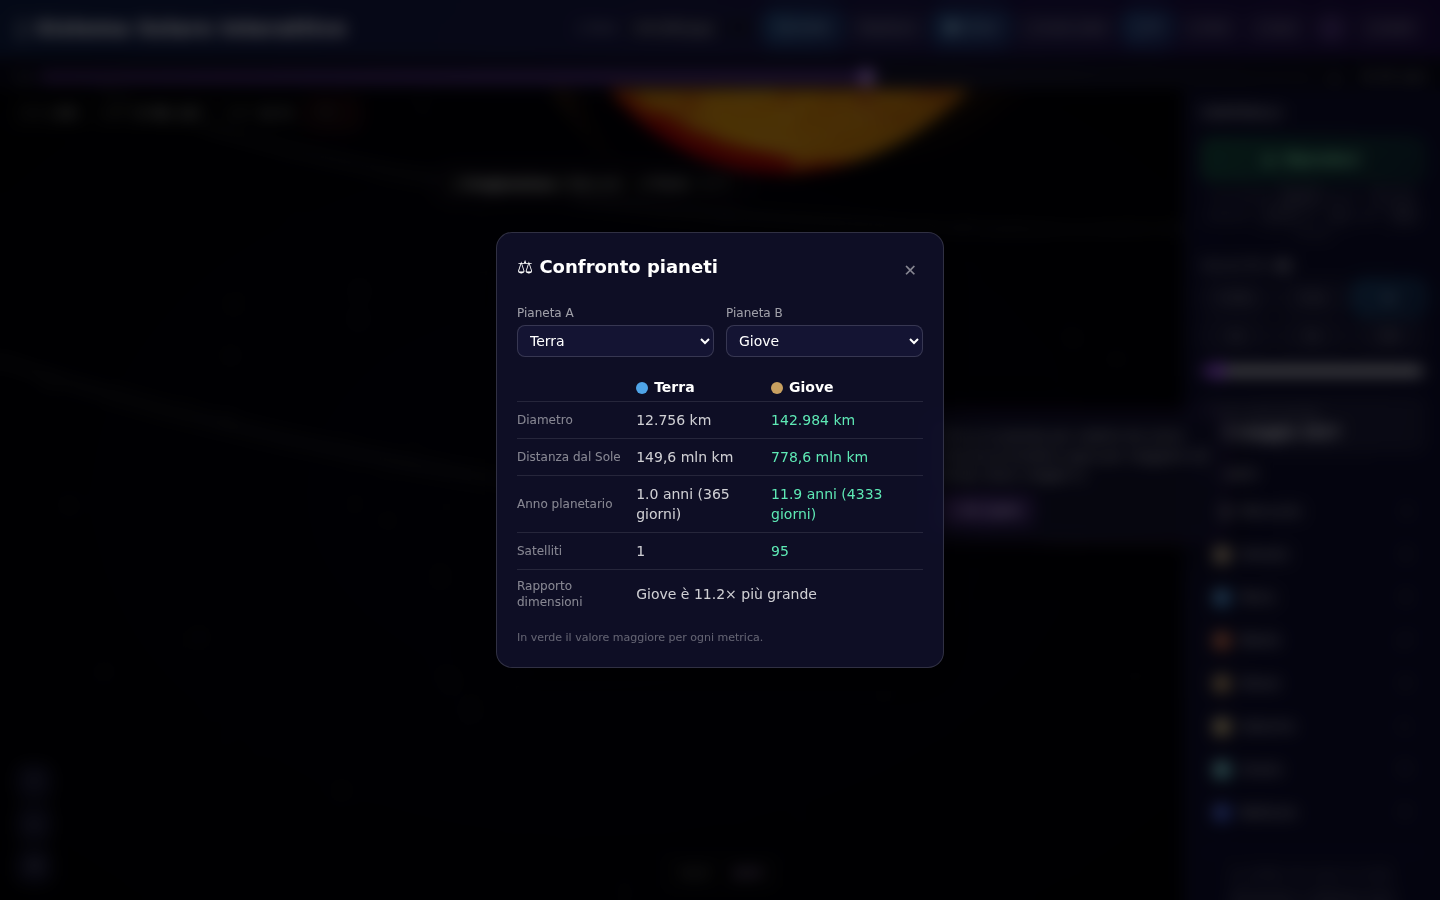
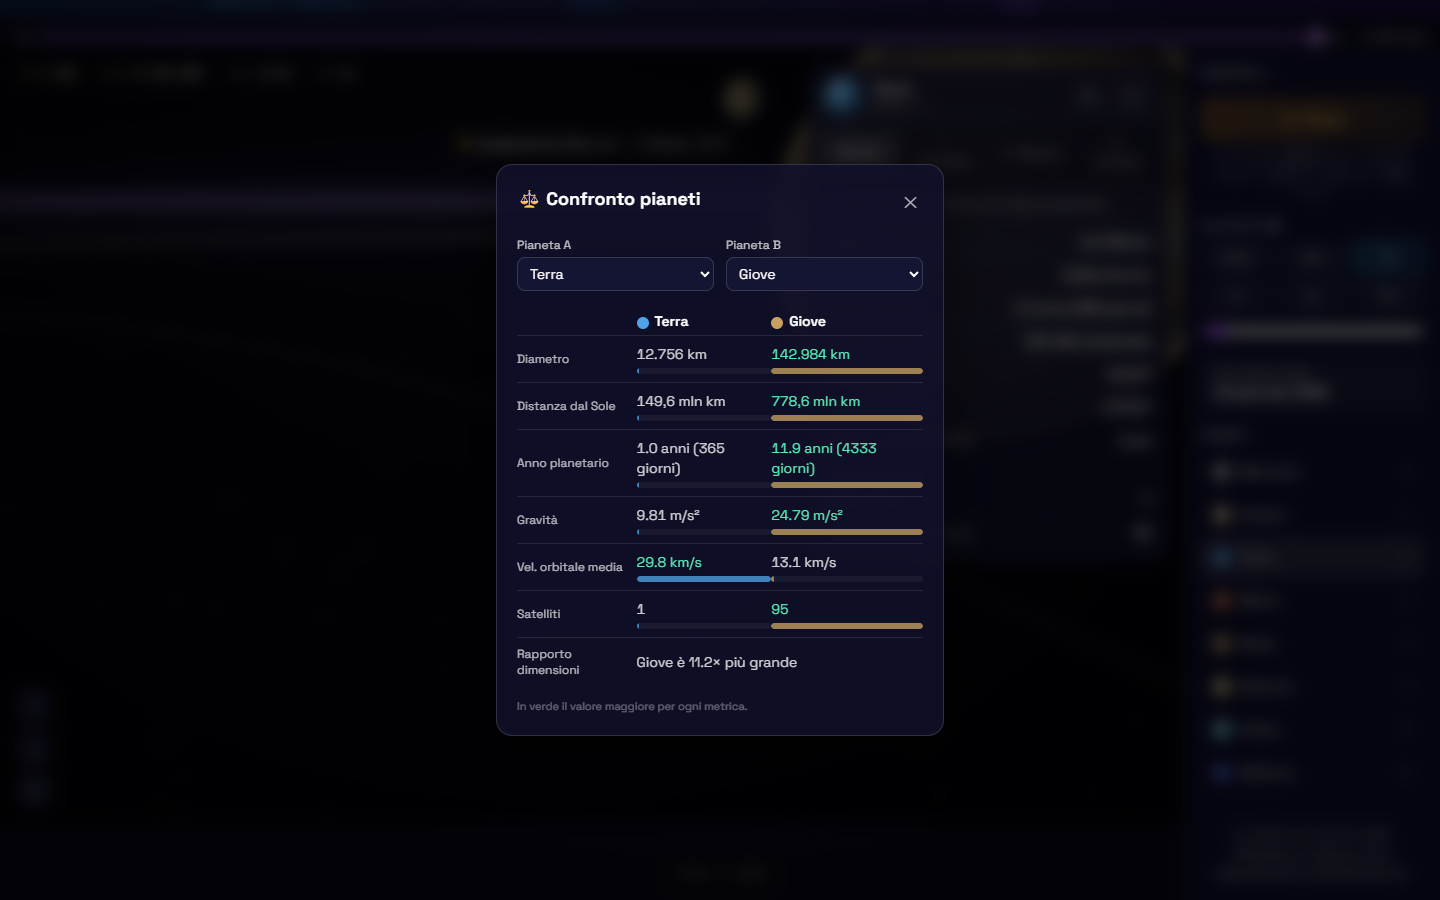
fix(ui): 4 miglioramenti UI (menu z-index, planet picker, quiz progress, debug HUD)
- App: il menu overflow ⋯ viene portaled a <body> con z-index 400 per
  sfuggire allo stacking context dell'header (z-10) ed evitare che la
  timeline lo copra, rendendo Confronto/Tour/Free Cam non cliccabili
- CompareModal: sostituiti i <select> nativi con un PlanetPicker custom
  (button+listbox) in tema dark, con il colore del pianeta per opzione
- QuizModal: aggiunta barra di progresso visiva (gradiente viola→rosa)
  con contatore 1/5 sopra la domanda
- HoverCrosshair: il badge coordinate 3D è nascosto di default e visibile
  solo in modalità debug (?debug=1 o localStorage('debug')='1'); il
  readout 'Target' resta sempre attivo per orientarsi
- Aggiornati i test RTL sul flusso confronto per il nuovo picker
- Rigenerati gli screenshot in docs/images/ per riflettere lo stato
  corrente del progetto (erano dell'11/10, dopo i commit S9–S15)

diff --git a/src/App.tsx b/src/App.tsx
@@ -1,4 +1,5 @@
 import { useEffect, useMemo, useRef, useState, useCallback, lazy, Suspense } from 'react';
+import { createPortal } from 'react-dom';
 import { planets, type PlanetData } from './data/planets';
 import {
   createHashWriter,
@@ -1094,69 +1095,92 @@ interface OverflowItem {
 
 /** Bottone "⋯" che apre un menu dropdown con le voci secondarie dell'header.
  *  Pensato per header stretti: se i chip entrano, `flex-wrap` li tiene in linea
- *  — il menu aggiunge solo uno shortcut cliccabile per le 3 voci più "nascoste". */
+ *  — il menu aggiunge solo uno shortcut cliccabile per le 3 voci più "nascoste".
+ *  Il dropdown è portaled a <body> per sfuggire allo stacking context
+ *  dell'header (z-10) e non essere coperto dalla timeline (anch'essa z-10). */
 function OverflowMenu({ items }: { items: OverflowItem[] }) {
   const t = useT();
   const [open, setOpen] = useState(false);
   const ref = useRef<HTMLDivElement>(null);
+  const triggerRef = useRef<HTMLButtonElement>(null);
+  const [pos, setPos] = useState<{ top: number; right: number } | null>(null);
 
   useEffect(() => {
     if (!open) return;
     const onClick = (e: MouseEvent) => {
-      if (ref.current && !ref.current.contains(e.target as Node)) setOpen(false);
+      const target = e.target as Node;
+      if (ref.current?.contains(target)) return;
+      if (triggerRef.current?.contains(target)) return;
+      setOpen(false);
     };
     const onKey = (e: KeyboardEvent) => {
       if (e.key === 'Escape') setOpen(false);
     };
-    document.addEventListener('mousedown', onClick);
-    document.addEventListener('keydown', onKey);
+    const updatePos = () => {
+      const r = triggerRef.current?.getBoundingClientRect();
+      if (r) setPos({ top: r.bottom + 6, right: window.innerWidth - r.right });
+    };
+    updatePos();
+    window.addEventListener('mousedown', onClick);
+    window.addEventListener('keydown', onKey);
+    window.addEventListener('resize', updatePos);
+    window.addEventListener('scroll', updatePos, true);
     return () => {
-      document.removeEventListener('mousedown', onClick);
-      document.removeEventListener('keydown', onKey);
+      window.removeEventListener('mousedown', onClick);
+      window.removeEventListener('keydown', onKey);
+      window.removeEventListener('resize', updatePos);
+      window.removeEventListener('scroll', updatePos, true);
     };
   }, [open]);
 
   return (
-    <div ref={ref} className="relative">
-      <button
-        type="button"
-        onClick={() => setOpen((v) => !v)}
-        aria-haspopup="menu"
-        aria-expanded={open}
-        aria-label={t('tip.more')}
-        title={t('tip.more')}
-        className={`chip ${open ? 'active' : ''}`}
-      >
-        ⋯
-      </button>
-      {open && (
-        <div
-          role="menu"
-          className="panel-in absolute right-0 top-full z-50 mt-1.5 flex min-w-[180px] flex-col gap-0.5 rounded-lg border border-white/10 bg-[#0d0d2a]/95 p-1.5 shadow-2xl backdrop-blur-md"
+    <>
+      <div ref={ref} className="relative">
+        <button
+          ref={triggerRef}
+          type="button"
+          onClick={() => setOpen((v) => !v)}
+          aria-haspopup="menu"
+          aria-expanded={open}
+          aria-label={t('tip.more')}
+          title={t('tip.more')}
+          className={`chip ${open ? 'active' : ''}`}
         >
-          {items.map((it) => (
-            <button
-              key={it.key}
-              role="menuitem"
-              onClick={() => {
-                it.onClick();
-                setOpen(false);
-              }}
-              className={`flex w-full items-center justify-between gap-3 rounded-md px-3 py-1.5 text-left text-[12px] transition-colors hover:bg-white/10 ${
-                it.active ? 'text-white' : 'text-white/75'
-              }`}
-              title={it.title}
-            >
-              <span>{it.label}</span>
-              {it.active && (
-                <span className="text-purple-300" aria-hidden>
-                  ●
-                </span>
-              )}
-            </button>
-          ))}
-        </div>
-      )}
-    </div>
+          ⋯
+        </button>
+      </div>
+      {open &&
+        pos &&
+        createPortal(
+          <div
+            role="menu"
+            style={{ position: 'fixed', top: pos.top, right: pos.right, zIndex: 400 }}
+            className="panel-in flex min-w-[180px] flex-col gap-0.5 rounded-lg border border-white/10 bg-[#0d0d2a]/95 p-1.5 shadow-2xl backdrop-blur-md"
+          >
+            {items.map((it) => (
+              <button
+                key={it.key}
+                role="menuitem"
+                onClick={() => {
+                  it.onClick();
+                  setOpen(false);
+                }}
+                className={`flex w-full items-center justify-between gap-3 rounded-md px-3 py-1.5 text-left text-[12px] transition-colors hover:bg-white/10 ${
+                  it.active ? 'text-white' : 'text-white/75'
+                }`}
+                title={it.title}
+              >
+                <span>{it.label}</span>
+                {it.active && (
+                  <span className="text-purple-300" aria-hidden>
+                    ●
+                  </span>
+                )}
+              </button>
+            ))}
+          </div>,
+          document.body
+        )}
+    </>
   );
 }

diff --git a/src/components/CompareModal.tsx b/src/components/CompareModal.tsx
@@ -5,7 +5,7 @@
  * S14 · F11 — evoluzione: barre animate in scala logaritmica, nuove righe
  * (gravità, velocità orbitale media, giorno siderale) derivate dal dataset.
  */
-import { useState } from 'react';
+import { useEffect, useRef, useState } from 'react';
 import { useT } from '../i18n';
 import type { PlanetData } from '../data/planets';
 import { formatNumber, formatOrbitalPeriod } from '../utils/format';
@@ -80,20 +80,7 @@ export default function CompareModal({ planets, onClose }: Props) {
   const b = planets.find((p) => p.name === bName) ?? planets[1];
 
   const selector = (label: string, value: string, onChange: (v: string) => void) => (
-    <label className="flex flex-col gap-1 text-xs text-white/75">
-      {label}
-      <select
-        value={value}
-        onChange={(e) => onChange(e.target.value)}
-        className="rounded-lg border border-white/15 bg-[#141433] px-2 py-1.5 text-sm text-white focus-visible:outline focus-visible:outline-2 focus-visible:outline-purple-400"
-      >
-        {planets.map((p) => (
-          <option key={p.name} value={p.name}>
-            {p.nameIt}
-          </option>
-        ))}
-      </select>
-    </label>
+    <PlanetPicker label={label} planets={planets} value={value} onChange={onChange} />
   );
 
   return (
@@ -179,6 +166,102 @@ export default function CompareModal({ planets, onClose }: Props) {
         </table>
         <p className="mt-3 text-[11px] text-white/35">{t('compare.note')}</p>
       </div>
+    </div>
+  );
+}
+
+/** S15 — sostituisce il <select> nativo: usa il tema dark, mostra il colore
+ *  del pianeta, ed evita il flicker di stile cross-browser dei menu OS. */
+function PlanetPicker({
+  label,
+  planets,
+  value,
+  onChange,
+}: {
+  label: string;
+  planets: PlanetData[];
+  value: string;
+  onChange: (v: string) => void;
+}) {
+  const [open, setOpen] = useState(false);
+  const ref = useRef<HTMLDivElement>(null);
+  const selected = planets.find((p) => p.name === value) ?? planets[0];
+
+  useEffect(() => {
+    if (!open) return;
+    const onClick = (e: MouseEvent) => {
+      if (ref.current && !ref.current.contains(e.target as Node)) setOpen(false);
+    };
+    const onKey = (e: KeyboardEvent) => {
+      if (e.key === 'Escape') setOpen(false);
+    };
+    document.addEventListener('mousedown', onClick);
+    document.addEventListener('keydown', onKey);
+    return () => {
+      document.removeEventListener('mousedown', onClick);
+      document.removeEventListener('keydown', onKey);
+    };
+  }, [open]);
+
+  return (
+    <div ref={ref} className="flex flex-col gap-1 text-xs text-white/75">
+      <span>{label}</span>
+      <button
+        type="button"
+        aria-haspopup="listbox"
+        aria-expanded={open}
+        aria-label={label}
+        onClick={() => setOpen((v) => !v)}
+        className="flex items-center justify-between gap-2 rounded-lg border border-white/15 bg-[#141433] px-2 py-1.5 text-left text-sm text-white transition-colors hover:border-white/30 focus-visible:outline focus-visible:outline-2 focus-visible:outline-purple-400"
+      >
+        <span className="flex items-center gap-2">
+          <span
+            className="inline-block h-3 w-3 rounded-full"
+            style={{ background: selected.color }}
+            aria-hidden
+          />
+          {selected.nameIt}
+        </span>
+        <span
+          className={`text-white/50 transition-transform ${open ? 'rotate-180' : ''}`}
+          aria-hidden
+        >
+          ▾
+        </span>
+      </button>
+      {open && (
+        <ul
+          role="listbox"
+          className="panel-in z-10 mt-1 max-h-60 overflow-auto rounded-lg border border-white/10 bg-[#0d0d2a]/98 p-1 shadow-2xl backdrop-blur-md"
+        >
+          {planets.map((p) => {
+            const active = p.name === value;
+            return (
+              <li key={p.name}>
+                <button
+                  type="button"
+                  role="option"
+                  aria-selected={active}
+                  onClick={() => {
+                    onChange(p.name);
+                    setOpen(false);
+                  }}
+                  className={`flex w-full items-center gap-2 rounded-md px-2 py-1.5 text-left text-sm transition-colors hover:bg-white/10 ${
+                    active ? 'bg-white/10 text-white' : 'text-white/80'
+                  }`}
+                >
+                  <span
+                    className="inline-block h-3 w-3 rounded-full"
+                    style={{ background: p.color }}
+                    aria-hidden
+                  />
+                  {p.nameIt}
+                </button>
+              </li>
+            );
+          })}
+        </ul>
+      )}
     </div>
   );
 }

diff --git a/src/components/HoverCrosshair.tsx b/src/components/HoverCrosshair.tsx
@@ -21,6 +21,16 @@ export interface HoverCrosshairProps {
 
 export function HoverCrosshair({ mouseNdcRef, worldHitRef, hoveredBodyRef }: HoverCrosshairProps) {
   const [pos, setPos] = useState<{ x: number; y: number } | null>(null);
+  // S15 · M7 — modalità debug: mostra le coordinate 3D sotto il mouse
+  // (`?debug=1` nell'URL o `localStorage('debug') === '1'`). Il mirino
+  // resta sempre attivo, il readout numerico no (riduce il rumore visivo
+  // per l'utente finale — la posizione è utile solo in fase di authoring).
+  const [debug] = useState(
+    () =>
+      typeof window !== 'undefined' &&
+      (new URLSearchParams(window.location.search).get('debug') === '1' ||
+        (typeof localStorage !== 'undefined' && localStorage.getItem('debug') === '1'))
+  );
   // Refresh forza re-render ogni 100ms per rileggere i ref live (worldHit, hoveredBody).
   const [, force] = useState(0);
   useEffect(() => {
@@ -74,8 +84,10 @@ export function HoverCrosshair({ mouseNdcRef, worldHitRef, hoveredBodyRef }: Hov
         <circle cx="12" cy="12" r="1" fill={bodyName ? '#a855f7' : 'rgba(255,255,255,0.9)'} />
       </svg>
 
-      {/* Badge coordinate in basso al centro */}
-      {(hit || bodyName) && (
+      {/* Badge coordinate in basso al centro. Mostra il nome del corpo
+          hovered (utile per orientarsi) sempre; le coordinate 3D grezze
+          solo in modalità debug (?debug=1). */}
+      {(hit || bodyName) && (bodyName || debug) && (
         <div
           className="pointer-events-none fixed bottom-3 left-1/2 z-10 -translate-x-1/2 rounded border border-white/20 bg-black/55 px-3 py-1.5 font-mono text-[10px] uppercase tracking-[0.18em] text-white/85 backdrop-blur-sm"
           aria-hidden
@@ -85,7 +97,7 @@ export function HoverCrosshair({ mouseNdcRef, worldHitRef, hoveredBodyRef }: Hov
               <span className="text-white/70">Target · </span>
               <span className="text-purple-300">{bodyName}</span>
             </>
-          ) : hit ? (
+          ) : hit && debug ? (
             <>
               <span className="text-white/70">X </span>
               <span>{hit.x.toFixed(1)}</span>

diff --git a/src/components/QuizModal.tsx b/src/components/QuizModal.tsx
@@ -292,7 +292,20 @@ export default function QuizModal({
           </div>
         ) : (
           <>
-            <p className="mb-1 text-xs uppercase tracking-wider text-white/65">
+            {/* S15 — barra di progresso visiva (1/5, 2/5, ...): migliora
+                l'orientamento dell'utente nel flusso di domande. */}
+            <div className="mb-2 flex items-center gap-2" aria-hidden>
+              <div className="h-1.5 flex-1 overflow-hidden rounded-full bg-white/10">
+                <div
+                  className="h-full rounded-full bg-gradient-to-r from-purple-500 to-pink-400 transition-[width] duration-300 ease-out"
+                  style={{ width: `${((index + 1) / questions.length) * 100}%` }}
+                />
+              </div>
+              <span className="font-mono text-[10px] tabular-nums text-white/70">
+                {index + 1}/{questions.length}
+              </span>
+            </div>
+            <p className="mb-3 text-[11px] uppercase tracking-wider text-white/55">
               {t('quiz.question', { n: index + 1, total: questions.length })}
             </p>
             <p className="mb-4 text-sm font-medium leading-relaxed">{q.prompt}</p>

diff --git a/src/App.flows.test.tsx b/src/App.flows.test.tsx
@@ -45,10 +45,10 @@ describe('Flusso: modalità confronto pianeti', () => {
     // default: Terra vs Giove — il rapporto dimensioni deve citare Giove
     expect(dialog).toHaveTextContent(/Giove è [\d.,]+× più grande/);
 
-    // cambio Pianeta B: Giove → Mercurio
-    fireEvent.change(screen.getByLabelText(/Pianeta B/i), {
-      target: { value: 'Mercury' },
-    });
+    // cambio Pianeta B: Giove → Mercurio (picker custom: apri la listbox e
+    // clicca l'opzione, l'evento `change` dei <select> non esiste più)
+    fireEvent.click(screen.getByLabelText(/Pianeta B/i));
+    fireEvent.click(screen.getByRole('option', { name: /Mercurio/i }));
     expect(dialog).toHaveTextContent(/Terra è [\d.,]+× più grande/);
 
     // chiusura
